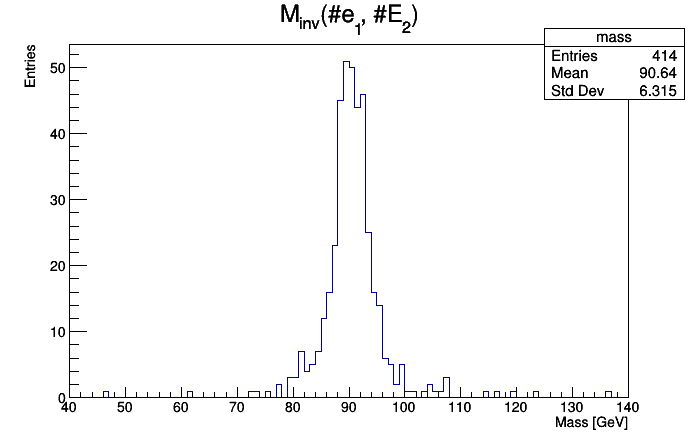
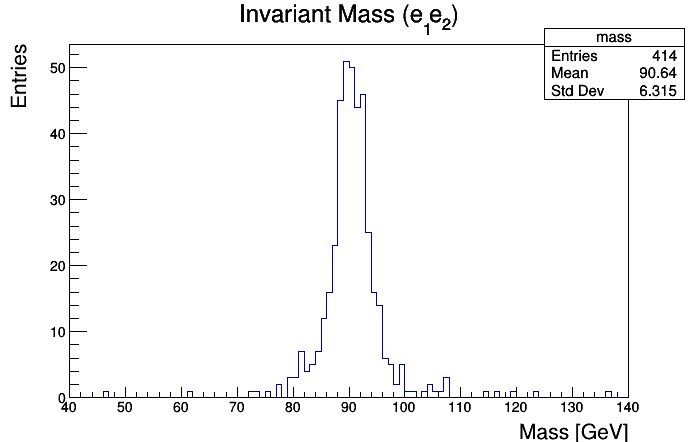
Pretty labels 2

Changed region(s): [[0.3309, 0.0, 0.6619, 0.0882], [0.7221, 0.9412, 0.9026, 1.0], [0.0, 0.0882, 0.0602, 0.2353]]

diff --git a/ZtoEE/ZtoEE_Delphes.C b/ZtoEE/ZtoEE_Delphes.C
@@ -29,9 +29,9 @@ void ZtoEE_Delphes(const char *inputFile)
   TClonesArray *branchElectron = treeReader->UseBranch("Electron");
     
   // Book histograms
-  TH1 *histMass = new TH1F("mass", "M_{inv}(#e_{1}, #E_{2})", 100, 40.0, 140.0);
-  TH1 *histPT1 = new TH1F("pt1", "PT(#e_{1})", 80, 0.0, 100.0);
-  TH1 *histPT2 = new TH1F("pt2", "PT(#E_{2})", 80, 0.0, 70.0);
+  TH1 *histMass = new TH1F("mass", "Invariant Mass (e_{1}e_{2})", 100, 40.0, 140.0);
+  TH1 *histPT1 = new TH1F("pt1", "e_{1}", 80, 0.0, 100.0);
+  TH1 *histPT2 = new TH1F("pt2", "e_{2}", 80, 0.0, 70.0);
 
   // Loop over all events
   for(Int_t entry = 0; entry < numberOfEntries; ++entry)
@@ -59,18 +59,26 @@ void ZtoEE_Delphes(const char *inputFile)
 
   // Show resulting histograms
   TCanvas *c1 = new TCanvas("c1", "c1");
-  histMass-> GetXaxis()->SetTitle("Mass [GeV]");
-  histMass-> GetYaxis()->SetTitle("Entries");
+  histMass-> GetXaxis()-> SetTitle("Mass [GeV]");
+  histMass-> GetYaxis()-> SetTitle("Entries");
+  histMass-> GetXaxis()-> SetTitleSize(0.05);
+  histMass-> GetYaxis()-> SetTitleSize(0.05);  
   histMass->Draw();
   c1 -> SaveAs("mass.png");
+  
   TCanvas *c2 = new TCanvas("c3", "c3");
   histPT1-> GetXaxis()->SetTitle("PT [GeV]");
   histPT1-> GetYaxis()->SetTitle("Entries");
+  histPT1-> GetXaxis()-> SetTitleSize(0.05);
+  histPT1-> GetYaxis()-> SetTitleSize(0.05);  
   histPT1 ->Draw();
   c2 -> SaveAs("pt1.png");
+  
   TCanvas *c3 = new TCanvas("c3", "c3");
   histPT2-> GetXaxis()->SetTitle("PT [GeV]");
   histPT2-> GetYaxis()->SetTitle("Entries");
+  histPT2-> GetXaxis()-> SetTitleSize(0.05);
+  histPT2-> GetYaxis()-> SetTitleSize(0.05);  
   histPT2 ->Draw();
   c3 -> SaveAs("pt2.png");
   
